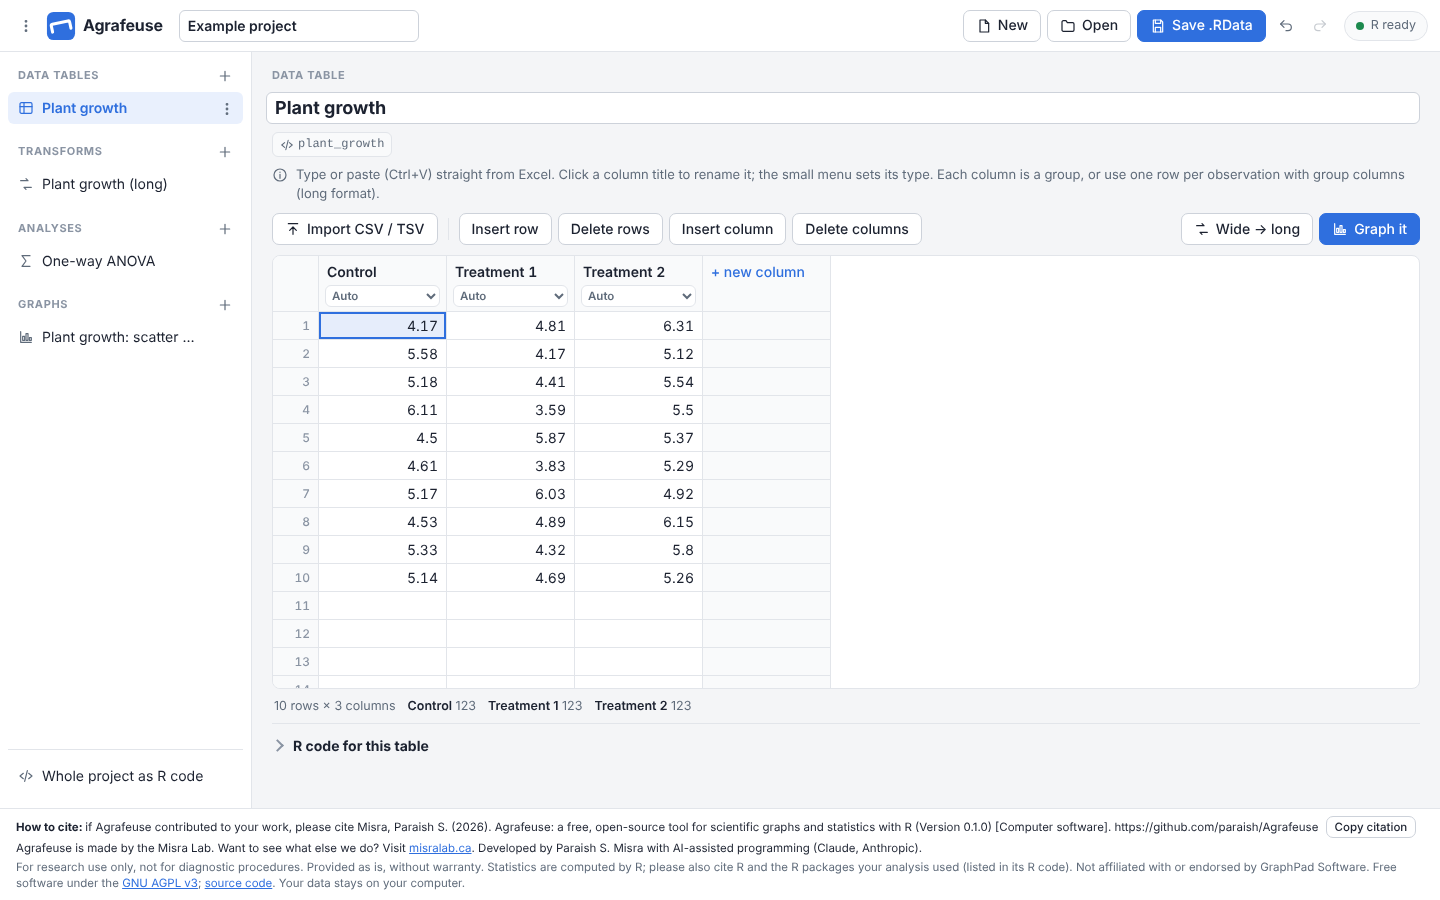
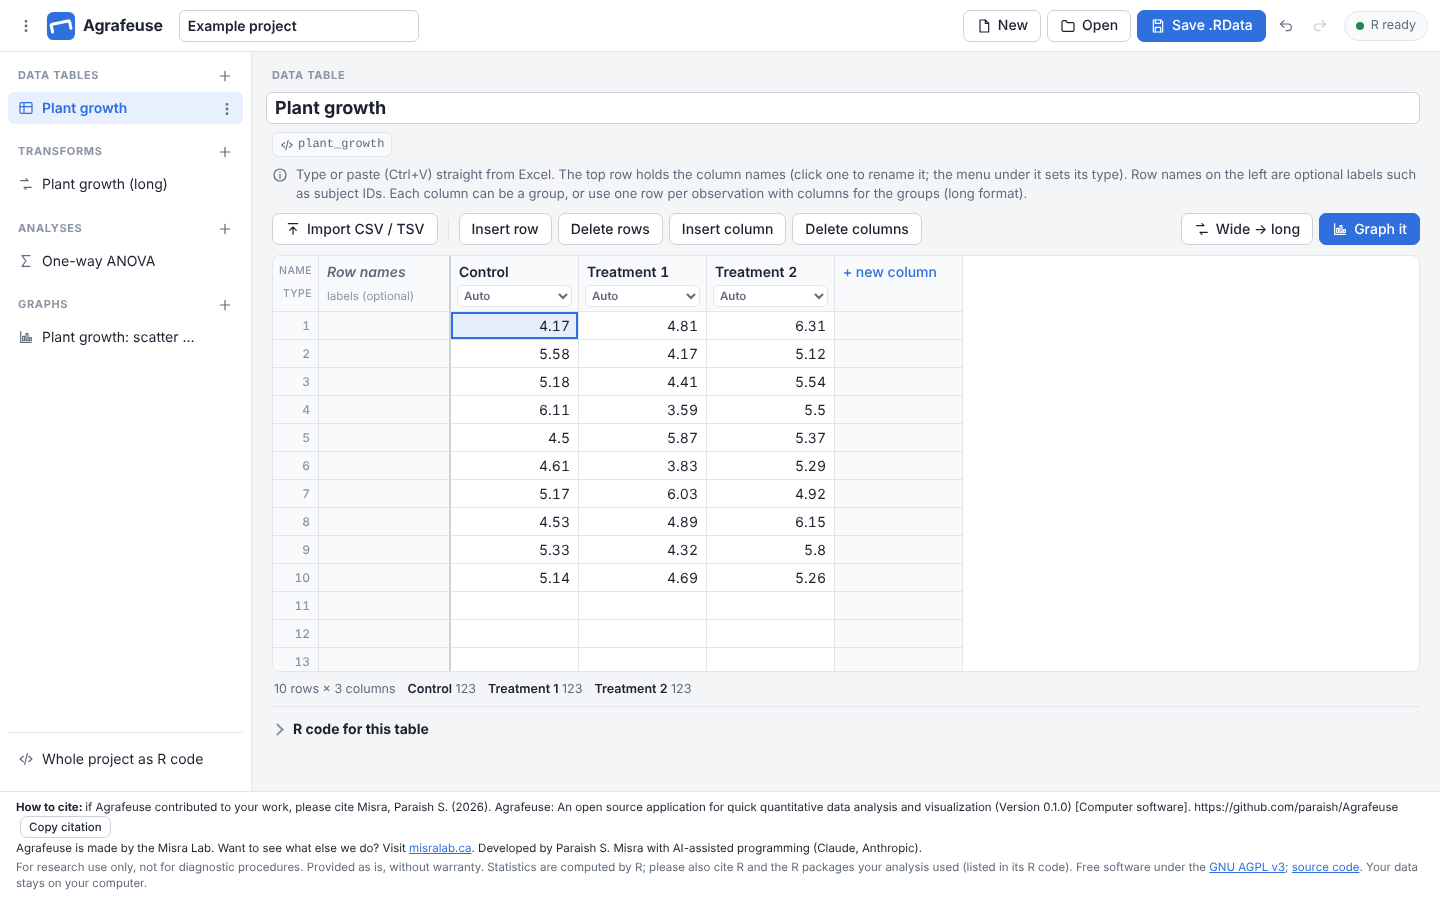
Data tables: explicit row names and column names
Every table now has a labelled header row of column names (with name and
type rows marked in the corner) and an optional "Row names" column pinned
on the left. Row names become a row_name column in R, so they survive
wide-to-long reshaping and can serve as subject IDs. They are imported from
CSV files with an unnamed first column (as R's write.csv writes) and from R
data frames with real row names (e.g. mtcars); typing, pasting, copying,
clearing and inserting/deleting rows all include them.

Claude-Session: https://claude.ai/code/session_011fCZrxuAPgx3iEUS5uivdT

diff --git a/js/ui/grid.js b/js/ui/grid.js
@@ -2,12 +2,15 @@
 // tables stay fast. Keyboard: arrows / Tab / Enter move, typing replaces the
 // cell, F2 or double-click edits it, Delete clears, Ctrl+C / Ctrl+V copy and
 // paste blocks (to and from Excel), Shift+arrows select a range.
+// Column names are the header row; row names are an optional first column
+// (index -1 here), e.g. subject IDs, which R gets as a "row_name" column.
 import { h, clear } from './dom.js';
 import { parseDelimited, isMissing, parseNumber } from '../codegen/data.js';
 
 const ROW_H = 28;
 const OVERSCAN = 10;
 const TYPE_OPTIONS = [['auto', 'Auto'], ['number', 'Number'], ['text', 'Text']];
+const RN = -1; // the row-names column
 
 export class Grid {
   constructor(table, { onChange, onSelect } = {}) {
@@ -54,10 +57,19 @@ export class Grid {
   get ncol() { return this.t.columns.length; }
   get nrowShown() { return Math.max(this.t.rows.length + 25, 40); }
   get(r, c) {
+    if (c === RN) return r < 0 ? 'Row names' : this.t.rowNames?.[r] ?? '';
     if (r < 0) return this.t.columns[c]?.name ?? '';
     return this.t.rows[r]?.[c] ?? '';
   }
   set(r, c, v) {
+    if (c === RN) {
+      if (r < 0) return; // the "Row names" heading is fixed
+      this.t.rowNames = this.t.rowNames || [];
+      while (this.t.rowNames.length < r) this.t.rowNames.push('');
+      this.t.rowNames[r] = v;
+      while (r >= this.t.rows.length) this.t.rows.push([]);
+      return;
+    }
     while (c >= this.ncol) this.t.columns.push({ name: `Column ${this.ncol + 1}`, type: 'auto' });
     if (r < 0) { this.t.columns[c].name = v; return; }
     while (r >= this.t.rows.length) this.t.rows.push([]);
@@ -103,10 +115,16 @@ export class Grid {
     const { r0, r1, c0, c1 } = this.rect();
     const ncolShown = this.ncol + 1;
 
-    const colgroup = h('colgroup', h('col', { style: { width: '46px' } }),
+    const colgroup = h('colgroup', h('col', { style: { width: '46px' } }), h('col', { style: { width: '132px' } }),
       Array.from({ length: ncolShown }, () => h('col', { style: { width: '128px' } })));
 
-    const headCells = [h('th.corner', { title: 'Select all', 'data-r': 'all' }, '')];
+    const headCells = [
+      h('th.corner', { title: 'Select all', 'data-r': 'all' }, h('div.corner-label', 'name'), h('div.corner-label', 'type')),
+      h('th.colhead.rowname-head', {
+        'data-r': -1, 'data-c': RN, class: r0 === -1 && c0 === RN ? 'sel' : '',
+        title: 'Optional labels for each row, e.g. subject or sample IDs. In R they become a "row_name" column.',
+      }, h('div.colname', 'Row names'), h('div.colsub', 'labels (optional)')),
+    ];
     for (let c = 0; c < ncolShown; c++) {
       const ghost = c === this.ncol;
       const selected = r0 === -1 && c >= c0 && c <= c1;
@@ -123,9 +141,16 @@ export class Grid {
       }, h('div.colname', ghost ? '+ new column' : (col.name || `Column ${c + 1}`)), typeSel));
     }
 
-    const body = [h('tr.spacer', h('td', { colspan: ncolShown + 1, style: { height: `${first * ROW_H}px` } }))];
+    const body = [h('tr.spacer', h('td', { colspan: ncolShown + 2, style: { height: `${first * ROW_H}px` } }))];
     for (let r = first; r < last; r++) {
-      const cells = [h('th.rowhead', { 'data-r': r, 'data-c': 'row', class: r >= r0 && r <= r1 && c0 === 0 && c1 >= this.ncol - 1 ? 'sel' : '' }, String(r + 1))];
+      const inRows = r >= r0 && r <= r1;
+      const cells = [
+        h('th.rowhead', { 'data-r': r, 'data-c': 'row', class: inRows && c0 <= RN && c1 >= this.ncol - 1 ? 'sel' : '' }, String(r + 1)),
+        h('td.rowname', {
+          'data-r': r, 'data-c': RN,
+          class: [inRows && c0 <= RN ? 'sel' : '', r === this.sel.r && this.sel.c === RN ? 'active' : ''].join(' '),
+        }, this.t.rowNames?.[r] ?? ''),
+      ];
       const row = this.t.rows[r];
       for (let c = 0; c < ncolShown; c++) {
         const v = row?.[c] ?? '';
@@ -141,7 +166,7 @@ export class Grid {
       }
       body.push(h('tr', cells));
     }
-    body.push(h('tr.spacer', h('td', { colspan: ncolShown + 1, style: { height: `${Math.max(0, this.nrowShown - last) * ROW_H}px` } })));
+    body.push(h('tr.spacer', h('td', { colspan: ncolShown + 2, style: { height: `${Math.max(0, this.nrowShown - last) * ROW_H}px` } })));
 
     clear(this.sheet);
     this.sheet.append(colgroup, h('thead', h('tr', headCells)), h('tbody', body));
@@ -163,7 +188,7 @@ export class Grid {
 
   select(r, c, extend = false) {
     r = Math.max(-1, Math.min(r, this.nrowShown - 1));
-    c = Math.max(0, Math.min(c, this.ncol));
+    c = Math.max(RN, Math.min(c, this.ncol));
     if (extend) { this.sel.r2 = r; this.sel.c2 = c; } else this.sel = { r, c, r2: r, c2: c };
     this.scrollIntoView(extend ? this.sel.r2 : r);
     this.render();
@@ -178,6 +203,7 @@ export class Grid {
   // ---- editing --------------------------------------------------------------------------------
   startEdit(initial = null) {
     const { r, c } = this.sel;
+    if (r < 0 && c === RN) return;
     this.editing = { r, c, quick: initial !== null };
     this.editor.value = initial !== null ? initial : this.get(r, c);
     this.editor.hidden = false;
@@ -203,7 +229,7 @@ export class Grid {
     this.editing = null;
     this.editor.hidden = true;
     if (value !== this.get(r, c)) {
-      const structural = r < 0 || c >= this.ncol;
+      const structural = r < 0 || c >= this.ncol || c === RN;
       this.set(r, c, value);
       this.changed(structural);
     } else this.render();
@@ -244,7 +270,7 @@ export class Grid {
     else if (k === 'Delete' || k === 'Backspace') { e.preventDefault(); this.clearSelection(); }
     else if (mod && (k === 'a' || k === 'A')) {
       e.preventDefault();
-      this.sel = { r: 0, c: 0, r2: Math.max(0, this.t.rows.length - 1), c2: Math.max(0, this.ncol - 1) };
+      this.sel = { r: 0, c: RN, r2: Math.max(0, this.t.rows.length - 1), c2: Math.max(0, this.ncol - 1) };
       this.render();
     } else if (!mod && !e.altKey && k.length === 1) {
       e.preventDefault();
@@ -268,13 +294,13 @@ export class Grid {
     e.preventDefault();
     this.el.focus({ preventScroll: true });
     if (t.r === 'all') {
-      this.sel = { r: 0, c: 0, r2: Math.max(0, this.t.rows.length - 1), c2: Math.max(0, this.ncol - 1) };
+      this.sel = { r: 0, c: RN, r2: Math.max(0, this.t.rows.length - 1), c2: Math.max(0, this.ncol - 1) };
       this.render();
       return;
     }
     if (t.c === 'row') {
       const keep = e.shiftKey ? this.sel.r : t.r;
-      this.sel = { r: keep, c: 0, r2: t.r, c2: Math.max(0, this.ncol - 1) };
+      this.sel = { r: keep, c: RN, r2: t.r, c2: Math.max(0, this.ncol - 1) };
       this.render();
       this.onSelect(this.rect());
       return;
@@ -361,6 +387,7 @@ export class Grid {
   insertRow() {
     const { r0 } = this.rect();
     this.t.rows.splice(Math.max(0, r0), 0, []);
+    if (this.t.rowNames?.length > r0) this.t.rowNames.splice(Math.max(0, r0), 0, '');
     this.changed(true);
   }
 
@@ -368,20 +395,22 @@ export class Grid {
     const { r0, r1 } = this.rect();
     if (r0 < 0) return;
     this.t.rows.splice(r0, r1 - r0 + 1);
+    this.t.rowNames?.splice(r0, r1 - r0 + 1);
     this.select(r0, this.sel.c);
     this.changed(true);
   }
 
   insertColumn() {
     const { c0 } = this.rect();
-    const at = Math.min(c0, this.ncol);
+    const at = Math.max(0, Math.min(c0, this.ncol));
     this.t.columns.splice(at, 0, { name: `Column ${this.ncol + 1}`, type: 'auto' });
     for (const row of this.t.rows) if (row.length > at) row.splice(at, 0, '');
     this.changed(true);
   }
 
   deleteColumns() {
-    const { c0, c1 } = this.rect();
+    const { c1 } = this.rect();
+    const c0 = Math.max(0, this.rect().c0); // the row-names column stays (clear it instead)
     const last = Math.min(c1, this.ncol - 1);
     if (c0 > last) return;
     this.t.columns.splice(c0, last - c0 + 1);

diff --git a/js/codegen/data.js b/js/codegen/data.js
@@ -14,10 +14,11 @@ export function parseNumber(s) {
   return Number(t);
 }
 
-// Number of rows that hold any data (trailing empty rows are ignored).
+// Number of rows that hold any data or a row name (trailing empty rows are ignored).
 export function usedRowCount(table) {
-  for (let r = table.rows.length - 1; r >= 0; r--) {
-    if ((table.rows[r] || []).some((v) => !isMissing(v))) return r + 1;
+  const n = Math.max(table.rows.length, table.rowNames?.length || 0);
+  for (let r = n - 1; r >= 0; r--) {
+    if ((table.rows[r] || []).some((v) => !isMissing(v)) || !isMissing(table.rowNames?.[r])) return r + 1;
   }
   return 0;
 }
@@ -55,6 +56,14 @@ export function inferColumns(table) {
     const levels = type === 'factor' ? [...new Set(values.filter((v) => v !== null))] : [];
     out.push({ name: unique, index: j, type, values, levels, bad, missing: values.filter((v) => v === null).length });
   });
+  // Row names, if any were typed, become the first column ("row_name").
+  const names = [];
+  for (let r = 0; r < nrow; r++) names.push(isMissing(table.rowNames?.[r]) ? null : String(table.rowNames[r]).trim());
+  if (names.some((v) => v !== null)) {
+    let name = 'row_name';
+    for (let i = 2; seen.has(name); i++) name = `row_name_${i}`;
+    out.unshift({ name, index: -1, type: 'factor', values: names, levels: [...new Set(names.filter((v) => v !== null))], bad: 0, missing: names.filter((v) => v === null).length, rowNames: true });
+  }
   return { nrow, columns: out };
 }
 
@@ -127,8 +136,15 @@ export function parseDelimited(text, delim = detectDelimiter(text)) {
   return rows;
 }
 
-// A data table node from a header row + body rows of strings.
+// A data table node from a header row + body rows of strings. A first
+// column with no heading (as R's write.csv writes) holds row names.
 export function tableFromRows(header, body) {
+  let rowNames = [];
+  if (header.length > 1 && String(header[0] ?? '').trim() === '') {
+    rowNames = body.map((r) => r[0] ?? '');
+    header = header.slice(1);
+    body = body.map((r) => r.slice(1));
+  }
   const ncol = Math.max(header.length, ...body.map((r) => r.length), 0);
   const columns = [];
   for (let j = 0; j < ncol; j++) columns.push({ name: (header[j] ?? '').trim() || `V${j + 1}`, type: 'auto' });
@@ -137,5 +153,5 @@ export function tableFromRows(header, body) {
     for (let j = 0; j < ncol; j++) out.push(r[j] ?? '');
     return out;
   });
-  return { columns, rows };
+  return { columns, rows, rowNames };
 }

diff --git a/css/app.css b/css/app.css
@@ -267,6 +267,15 @@ details.about p { margin: 8px 0 0; }
 .sheet .corner { z-index: 3; }
 .sheet .rowhead.sel { background: var(--accent-weak); color: var(--accent); }
 .sheet tr.spacer td { padding: 0; border: 0; height: auto; }
+/* row names: a label column pinned next to the row numbers */
+.sheet td.rowname { position: sticky; left: 46px; z-index: 1; background: var(--panel-2); font-weight: 500; border-right: 2px solid var(--border-strong); cursor: cell; }
+.sheet td.rowname.sel { background: color-mix(in srgb, var(--accent) 14%, var(--panel-2)); }
+.sheet th.rowname-head { position: sticky; left: 46px; z-index: 3; border-right: 2px solid var(--border-strong); }
+.sheet th.rowname-head .colname { font-style: italic; color: var(--muted); }
+.sheet .colsub { height: 22px; line-height: 22px; font-size: 11.5px; font-weight: 400; color: var(--faint); padding: 0 2px; }
+.sheet .corner { vertical-align: top; text-align: right; padding: 4px 6px; }
+.sheet .corner-label { font-size: 10.5px; font-weight: 500; color: var(--faint); text-transform: uppercase; letter-spacing: 0.04em; line-height: 22px; }
+.sheet .corner-label + .corner-label { margin-top: 1px; }
 .cell-editor { position: absolute; z-index: 5; border: 2px solid var(--accent); border-radius: 0; padding: 0 6px; background: var(--panel); box-shadow: var(--shadow-lg); height: 28px; }
 .data-info { display: flex; flex-wrap: wrap; gap: 6px 12px; color: var(--muted); font-size: 12.5px; padding: 8px 2px; }
 .colinfo b { color: var(--text); font-weight: 600; }

diff --git a/js/ui/dataView.js b/js/ui/dataView.js
@@ -41,7 +41,7 @@ export class DataView {
       button('Graph it', () => this.graphIt(), { iconName: 'graph', kind: 'primary' }));
     fill(this.el, 
       itemHeader(this.app, it, 'Data table'),
-      h('div.hintbar', icon('info'), h('span', 'Type or paste (Ctrl+V) straight from Excel. Click a column title to rename it; the small menu sets its type. Each column is a group, or use one row per observation with group columns (long format).')),
+      h('div.hintbar', icon('info'), h('span', 'Type or paste (Ctrl+V) straight from Excel. The top row holds the column names (click one to rename it; the menu under it sets its type). Row names on the left are optional labels such as subject IDs. Each column can be a group, or use one row per observation with columns for the groups (long format).')),
       toolbar,
       h('div.grid-host', this.grid.el),
       this.info,
@@ -71,6 +71,7 @@ export class DataView {
     const t = tableFromRows(rows[0], rows.slice(1));
     this.item.columns = t.columns;
     this.item.rows = t.rows;
+    this.item.rowNames = t.rowNames;
     if (this.item.name.startsWith('Data ')) this.item.name = uniqueName(this.app.store.project, file.name.replace(/\.[^.]+$/, ''));
     this.app.renameItem(this.item);
     this.render();

diff --git a/js/ui/app.js b/js/ui/app.js
@@ -282,6 +282,7 @@ export class App {
           name: uniqueName(p, rName),
           columns: t.columns.map((c) => ({ name: c.name, type: c.type === 'numeric' ? 'auto' : 'text' })),
           rows: t.rows,
+          rowNames: t.row_names || [],
         });
       } catch (e) { toast(`Could not load ${rName}: ${e.message}`, 'error'); return; }
     }
@@ -487,7 +488,7 @@ export class App {
       const p = this.store.project;
       let last;
       for (const [nm, t] of frames) {
-        last = newDataTable(p, { name: uniqueName(p, nm), columns: t.columns.map((c) => ({ name: c.name, type: c.type === 'numeric' ? 'auto' : 'text' })), rows: t.rows });
+        last = newDataTable(p, { name: uniqueName(p, nm), columns: t.columns.map((c) => ({ name: c.name, type: c.type === 'numeric' ? 'auto' : 'text' })), rows: t.rows, rowNames: t.row_names || [] });
       }
       this.added(last);
       toast(`Added ${frames.length} data table${frames.length > 1 ? 's' : ''} from ${file.name}.`);

diff --git a/js/ui/statsView.js b/js/ui/statsView.js
@@ -20,7 +20,7 @@ export function autofillAnalysis(a, s) {
   a.y = nums.find((n) => !/^(id|subject)$/i.test(n)) || '';
   a.x = '';
   if (t.inputs.x) { a.x = nums[0] || ''; a.y = nums[1] || ''; }
-  a.subject = s.columns.find((c) => /subject|^id$|mouse|animal|patient|participant|donor|rat|individual/i.test(c.name))?.name || '';
+  a.subject = s.columns.find((c) => /subject|^id$|row_name|mouse|animal|patient|participant|donor|rat|individual/i.test(c.name))?.name || '';
   const groups = facs.filter((f) => f !== a.subject);
   a.group = groups[0] || '';
   a.factorB = groups[1] || '';

diff --git a/js/model.js b/js/model.js
@@ -58,12 +58,13 @@ export function addItem(project, item) {
   return item;
 }
 
-export function newDataTable(project, { name, columns, rows } = {}) {
+export function newDataTable(project, { name, columns, rows, rowNames } = {}) {
   const cols = columns || [{ name: 'Group A', type: 'auto' }, { name: 'Group B', type: 'auto' }, { name: 'Group C', type: 'auto' }];
   return addItem(project, {
     kind: 'data', name,
     columns: cols,
     rows: rows || [],
+    rowNames: rowNames || [],
   });
 }
 

diff --git a/README.md b/README.md
@@ -15,7 +15,7 @@
 
 | | |
 |---|---|
-| **Enter data** | Type straight into a spreadsheet, paste a block from Excel, import CSV/TSV, open an `.RData` file, or start from a built-in R dataset. Column tables (one column per group), XY tables and long tables. |
+| **Enter data** | Type straight into a spreadsheet, paste a block from Excel, import CSV/TSV, open an `.RData` file, or start from a built-in R dataset. Column tables (one column per group), XY tables and long tables. Every table has a row of column names and an optional row-names column (e.g. subject IDs), which R receives as a `row_name` column, so it survives transforms and can identify subjects in paired and repeated-measures tests. |
 | **Transform** | Wide → long (melt / `pivot_longer`), long → wide, transpose, filter rows, reorder groups, rename, calculate a column with any R expression (log10, % of control, z-score…), change column types, keep/drop columns, summarise by group, sort, remove missing values. Steps chain together; the original table is never changed. |
 | **Graph** | A layered ggplot2 builder. Each layer picks a dataset and one of 23 geoms (points, jitter, dot plot, bars at the mean, error bars, box, violin, histogram, lines, fitted lines, heatmap tiles, text, reference lines…). Each aesthetic (colour, fill, symbol, size, opacity, line type) is either mapped to a column or set to a fixed value. Press **Add layer** to stack more. Templates for the usual figures and a box for any extra ggplot2 code. Under the graph, a formatting panel sets axis titles and tick labels (size, **bold**, *italic*, underline, angle), scales (linear, log, square root, reversed), ranges, tick spacing and number formats, the graph title, font, themes (including a clean "lab figure" look), palettes or per-group colours, the legend and panels (facets). Drag the graph's edges to resize it, and drag along an axis to stretch or shrink its range (double-click the axis to reset it). Axis ranges zoom with `coord_cartesian()`, so points outside the range still count towards means, error bars and fits. |
 | **Statistics** | t tests (unpaired / Welch, paired, ratio paired, one-sample), Mann-Whitney, Wilcoxon, one-way ANOVA with Tukey / Dunnett / Šidák / Bonferroni / Holm / FDR, Welch's ANOVA with Games-Howell, Kruskal-Wallis with Dunn's test, repeated-measures ANOVA, Friedman, two-way ANOVA (Type III or I) with simple-effects comparisons, mixed-effects models, correlation (Pearson, Spearman, Kendall), regression (linear, polynomial, log, exponential, power, 4-parameter dose-response with EC50, Michaelis-Menten, one-phase decay), descriptive statistics and normality tests. Each test has a plain-language explanation. |
